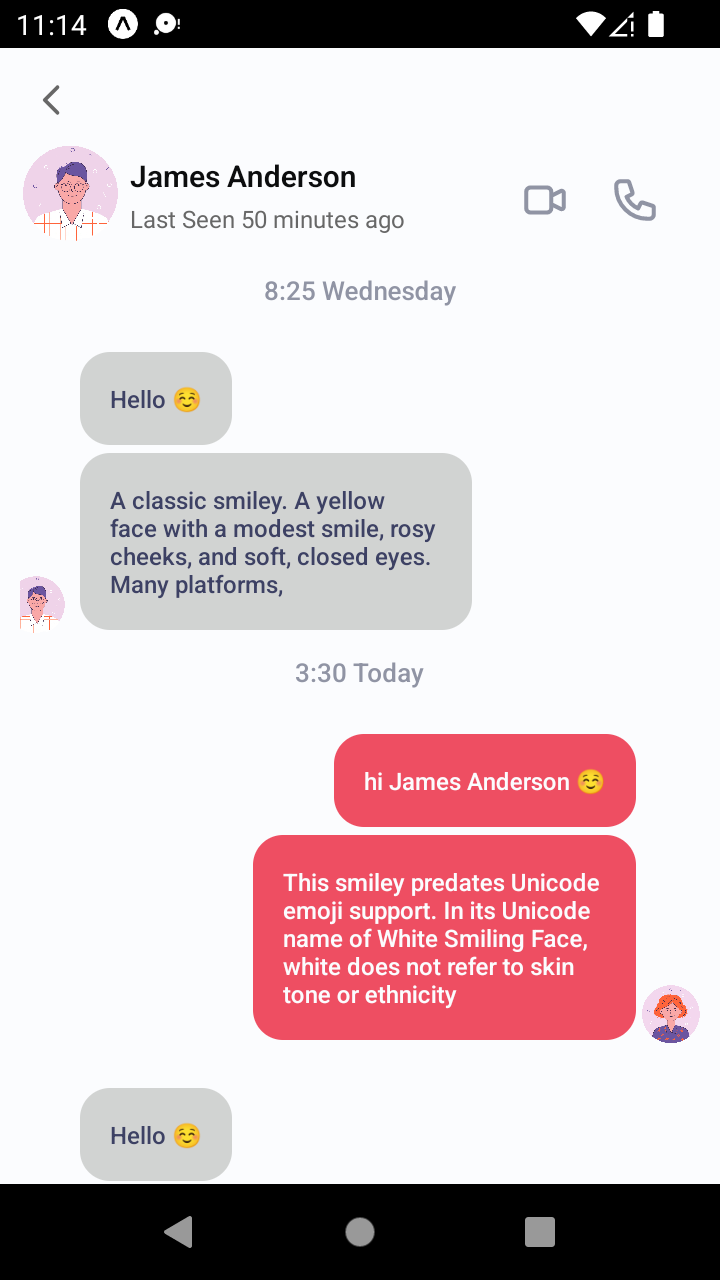
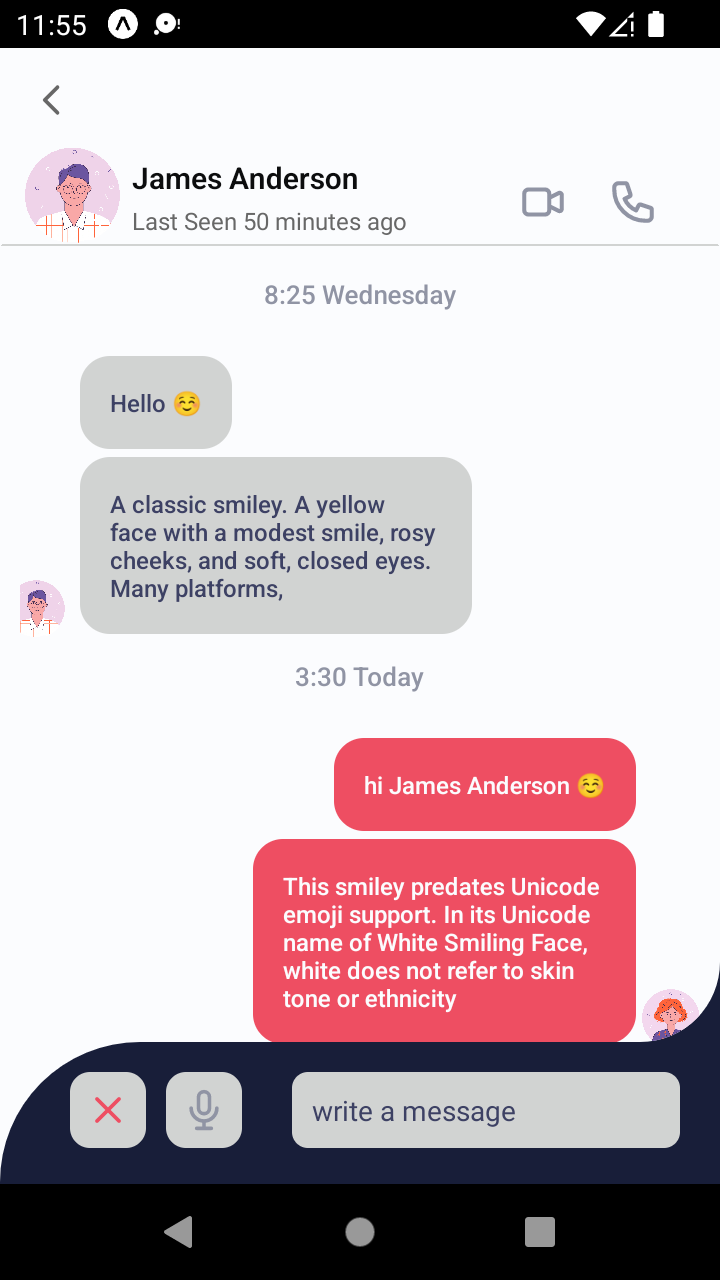
added Chat Screen

diff --git a/Screens/ChatScreen.js b/Screens/ChatScreen.js
@@ -1,14 +1,15 @@
-import { Image, SafeAreaView, ScrollView, StyleSheet, Text, TouchableOpacity, View } from 'react-native'
+import { Image, SafeAreaView, ScrollView, StyleSheet, Text, TextInput, TouchableOpacity, View } from 'react-native'
 import React from 'react'
-import {ChevronLeftIcon, PhoneIcon, VideoCameraIcon} from 'react-native-heroicons/outline'
+import {ChevronLeftIcon, MicrophoneIcon, PhoneIcon, VideoCameraIcon, XIcon} from 'react-native-heroicons/outline'
 import colors from '../assets/colors/colors'
 import { useRoute } from '@react-navigation/native'
 
 const ChatScreen = ({navigation}) => {
   const {params: {chat}} = useRoute();
   return (
-    <SafeAreaView style={styles.container}>
-      <View style={{flexDirection: 'row', justifyContent: 'flex-start', marginTop: 15, paddingHorizontal: 15}}>
+  <SafeAreaView style={styles.container}>
+    <View style={{flex: 14/16, borderBottomRightRadius: 40, backgroundColor: colors.white, overflow:'hidden'}}>
+      <View style={{flexDirection: 'row', justifyContent: 'flex-start', marginTop: 15, paddingHorizontal: 15,}}>
         <TouchableOpacity
           onPress={()=>navigation.goBack()}
         >
@@ -16,7 +17,7 @@ const ChatScreen = ({navigation}) => {
         </TouchableOpacity>
       </View>
 
-      <View style={{display:'flex', flexDirection: 'row', alignItems: 'center', justifyContent: 'space-between'}}>
+      <View style={{display:'flex', flexDirection: 'row', alignItems: 'center', justifyContent: 'space-between',borderColor: colors.white, borderBottomColor: colors.gray, borderWidth:1}}>
         <View style={{display: 'flex', flexDirection: 'row', alignItems: 'center', marginTop: 10, paddingHorizontal: 10}}>
           <Image
            source={chat.image}
@@ -40,8 +41,8 @@ const ChatScreen = ({navigation}) => {
       </View>
       <ScrollView
        showsVerticalScrollIndicator={false}
-       contentContainerStyle={{}}
-       style={{marginHorizontal: 10}}
+       contentContainerStyle={{paddingBottom: 20}}
+       style={{marginHorizontal: 10, paddingBottom: 30}}
       >
         <View style={{marginTop: 15, flex:1, alignItems: 'center'}}>
           <Text style={{fontSize: 13, fontWeight: '500', color: colors.lightGray}}>8:25 Wednesday</Text>
@@ -160,7 +161,26 @@ const ChatScreen = ({navigation}) => {
         </View>
 
       </ScrollView>
-    </SafeAreaView>
+    </View>
+
+    <View style={{position: 'absolute',width: '30%', height: '30%', backgroundColor: colors.darkBlue, bottom: 0, right: 0, zIndex: -1}}></View>
+
+    <View style={{flex: 2/16, backgroundColor: colors.darkBlue, borderTopLeftRadius: 70}}>
+    
+        <View style={{display:'flex', flexDirection: 'row', alignItems: 'center', justifyContent: 'space-around', marginTop: 15, marginLeft: 30}}>
+          <TouchableOpacity style={{backgroundColor: colors.gray, padding: 8, borderRadius: 10, marginHorizontal:5}}>
+            <XIcon size={22} color={colors.red}/>
+          </TouchableOpacity>
+
+          <TouchableOpacity style={{backgroundColor: colors.gray, padding: 8, borderRadius: 10, marginHorizontal:5}}>
+            <MicrophoneIcon size={22} color={colors.lightGray} />
+          </TouchableOpacity>
+
+          <TextInput placeholder='write a message' placeholderTextColor={colors.darkViolet} keyboardType='default' style={{color: colors.darkViolet, backgroundColor: colors.gray, flex:1, marginHorizontal:20, padding:5, borderRadius:8, paddingHorizontal:10}} />
+       </View>
+    </View>
+      
+  </SafeAreaView>
   )
 }
 
